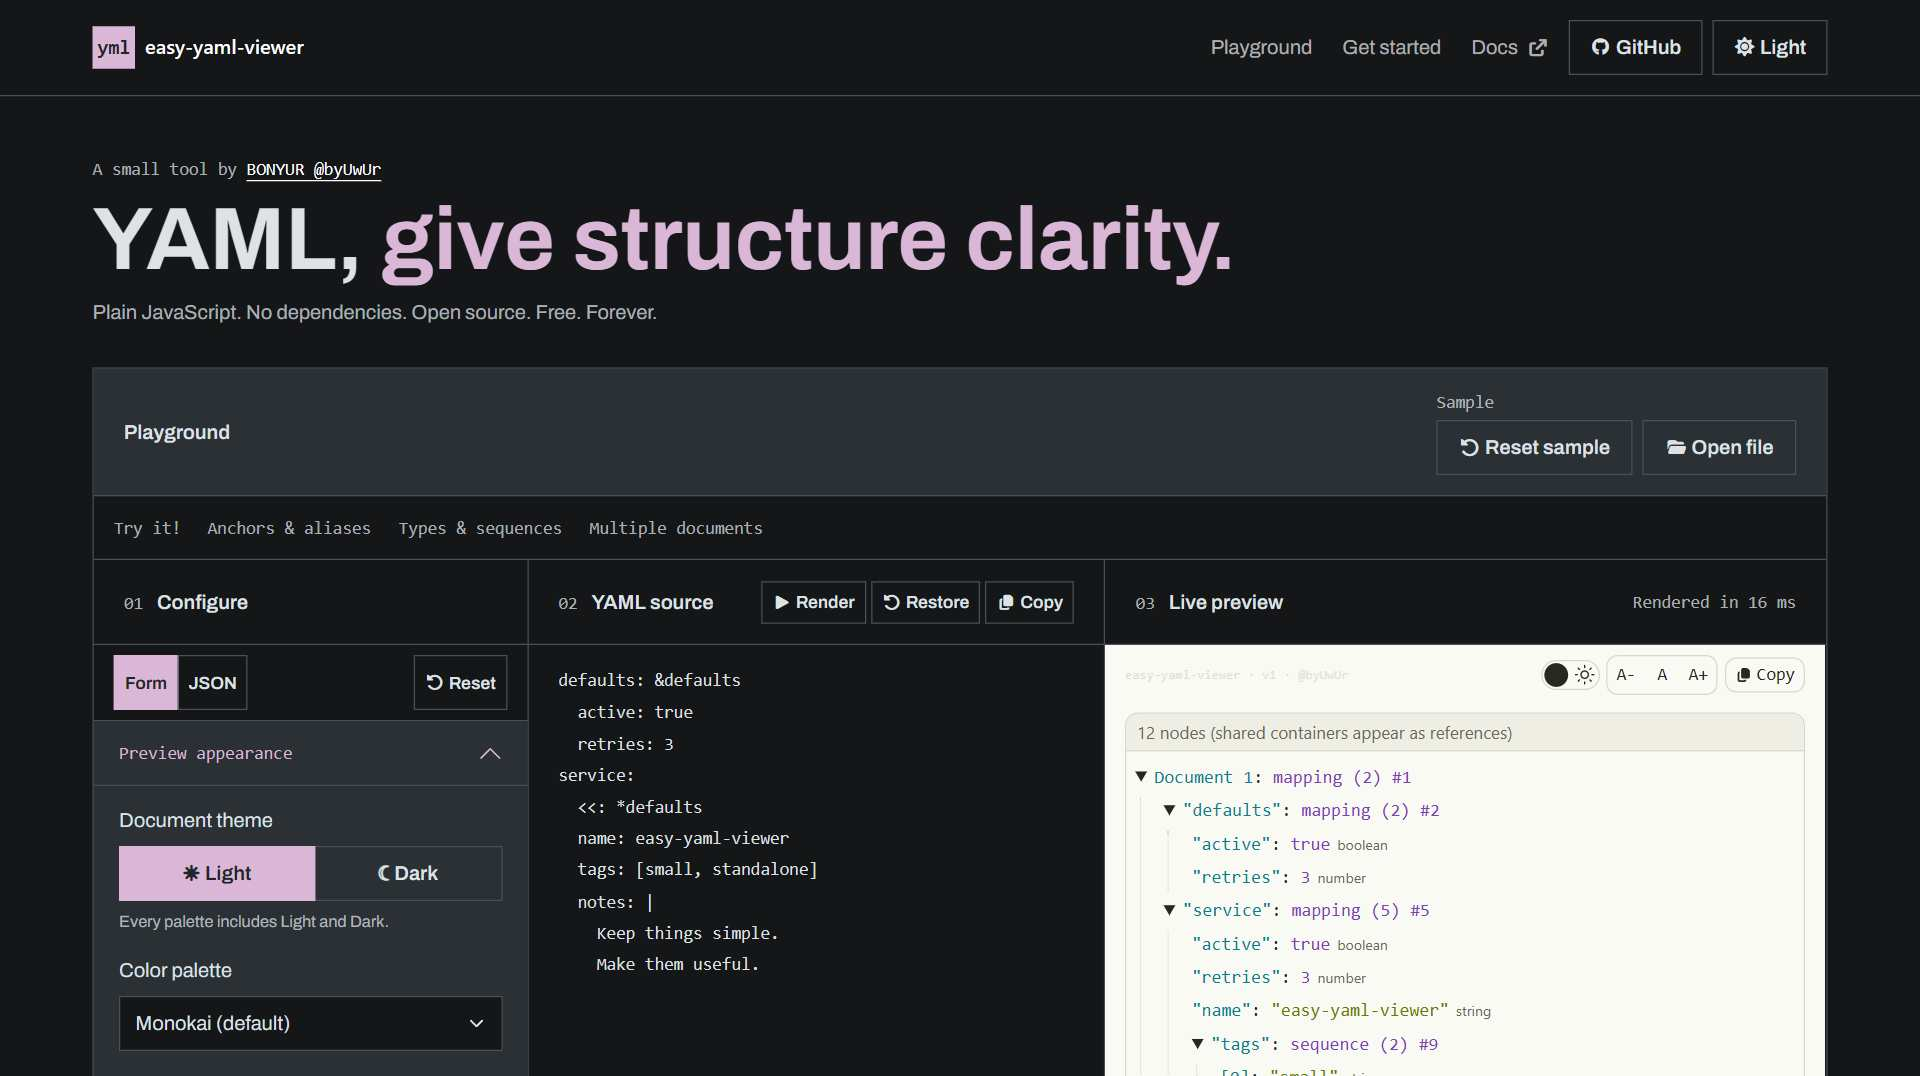
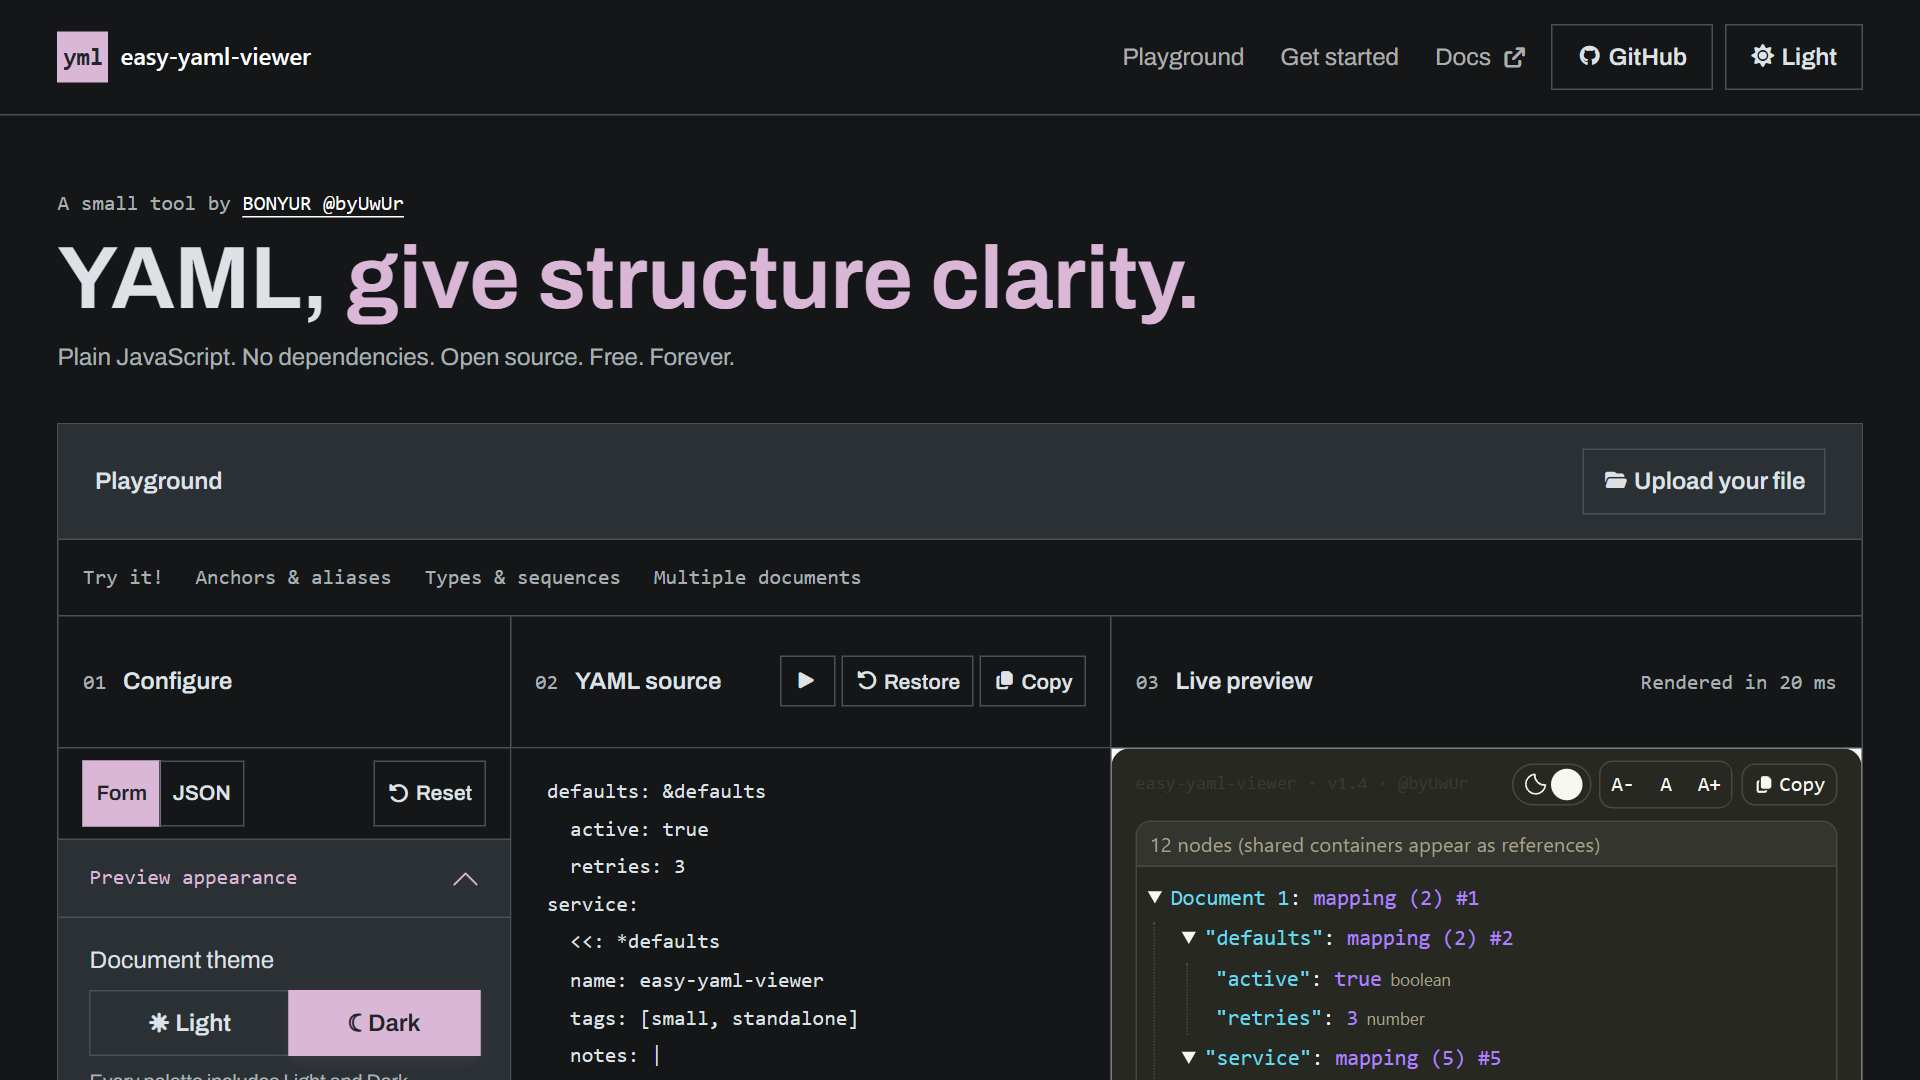
[Update] [Previews] Refresh the 1080p playground preview
Refresh the preview capture at 150% scaling, with exact 1920x1080 JPEG output capped at 100000 bytes. Align image-height metadata where present.

Validation: JPEG format, dimensions, and byte limits; affected-file diff checks.

diff --git a/index.html b/index.html
@@ -24,7 +24,7 @@
     <meta property="og:image" content="https://yaml.byuwur.co/prev.jpg" />
     <meta property="og:image:type" content="image/jpeg" />
     <meta property="og:image:width" content="1920" />
-    <meta property="og:image:height" content="1076" />
+    <meta property="og:image:height" content="1080" />
     <meta property="og:image:alt" content="easy-yaml-viewer by BONYUR: YAML playground, options, source editor, and live preview." />
     <meta name="twitter:card" content="summary_large_image" />
     <meta name="twitter:creator" content="@byUwUr" />
